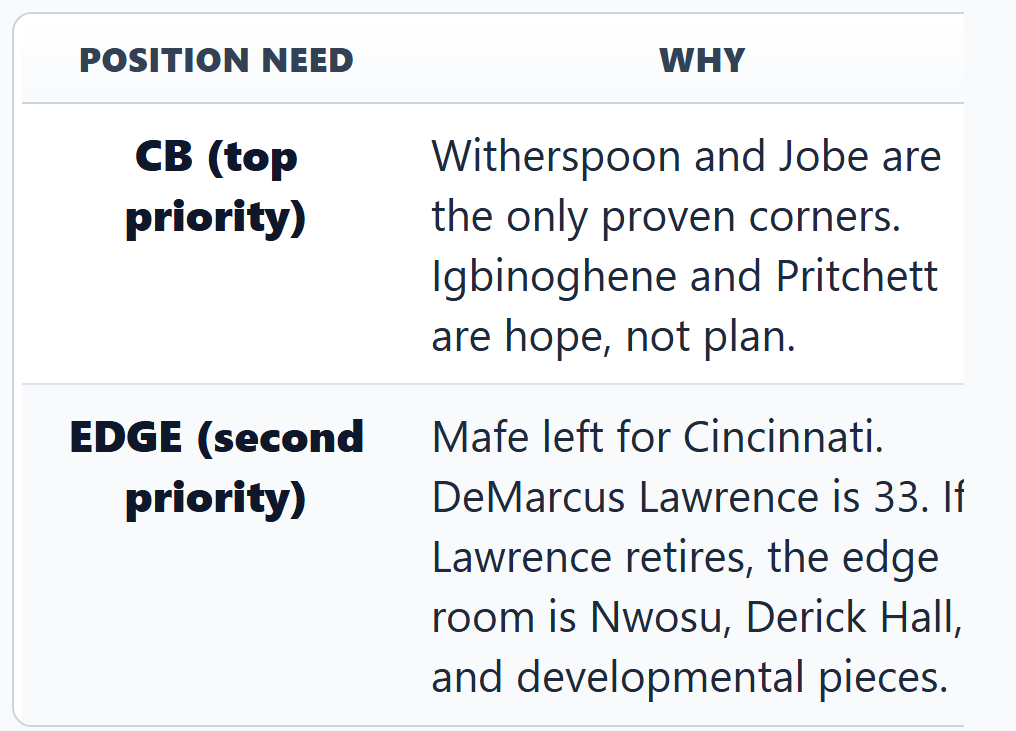
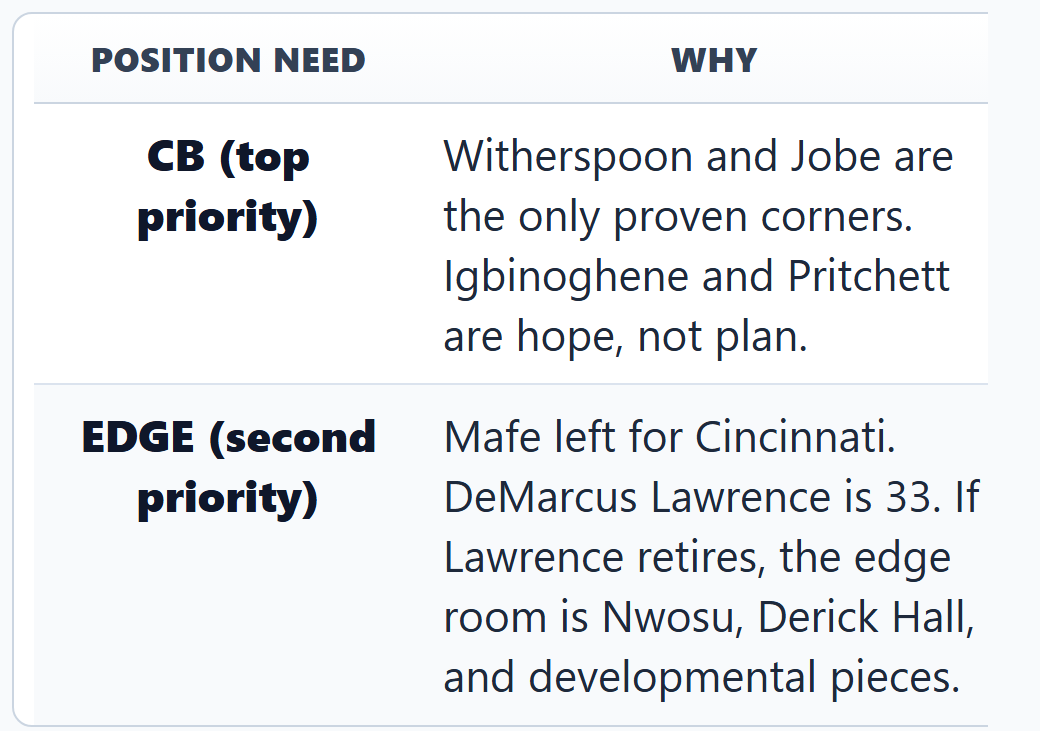
fix: increase mobile table frame padding to eliminate right-edge text clipping
tableFramePaddingX 4px was insufficient — Chrome's subpixel column-width
rounding at 2x DPR plus border-radius anti-aliasing on the overflow:hidden
frame consumed the margin. Increased to 10px. chooseMobileCanvasWidth()
auto-compensates so effective table content area is unchanged.

Also added word-break:break-word to tbody td for defensive consistency
with thead th.

Re-rendered both sea-emmanwori-rookie-eval mobile images; verified clean.

diff --git a/.squad/decisions/inbox/lead-mobile-table-render-fix.md b/.squad/decisions/inbox/lead-mobile-table-render-fix.md
@@ -2,7 +2,7 @@
 
 **Date:** 2026-07-26
 **Author:** Lead
-**Status:** Implemented
+**Status:** ✅ APPLIED (updated)
 
 ## Problem
 
@@ -10,20 +10,18 @@ Mobile table PNG images (generated by `.github/extensions/table-image-renderer/r
 
 ## Root Cause
 
-Two interacting issues:
+The original fix (commit `fcd6daa`) introduced `tableFramePaddingX: 4` and switched to `border-collapse: separate`, but 4 CSS px was insufficient. Chrome's subpixel column-width rounding at 2× DPR, combined with anti-aliased `border-radius: 10px` bleeding on the frame's `overflow: hidden` clip boundary, consumed the 4px margin. The effective visible buffer between text and the clip edge was ≈1–2px — too thin for 22px mobile body font.
 
-1. **`border-collapse: collapse` + `table-layout: fixed`** — Chrome's collapsed border model can produce subpixel column-width rounding that makes the table 1-4px wider than its container.
-2. **Zero-margin `overflow: hidden` on `.table-frame`** — The table filled the frame's content box exactly, so even 1px of overflow from (1) clipped the rightmost column's text.
+## Fix (round 2)
 
-## Fix (3 parts)
-
-1. **Added `tableFramePaddingX` to layout constants** (4px for mobile, 0 for desktop). This creates a safety buffer inside `.table-frame` between the border and the table. The `overflow: hidden` clips at the padding-box, which now extends beyond the content area.
-2. **Changed `border-collapse: collapse` → `border-collapse: separate; border-spacing: 0`** — eliminates Chrome's collapsed border rounding issue while maintaining identical visual appearance.
-3. **Increased mobile canvas width by `2 × tableFramePaddingX`** — compensates for the added frame padding so the effective table content area stays the same.
-4. **Updated `estimateRowHeight` and `estimateHeaderRowHeight`** — now account for frame border and padding in usable-width calculations.
+1. **Increased `tableFramePaddingX` from 4 → 10** in `MOBILE_RENDER_LAYOUT`. The additional 6px provides a clearly visible safety margin at mobile font sizes.
+2. **Added `word-break: break-word` to `tbody td`** CSS — matches `thead th` for defensive consistency.
+3. **No change to desktop layout** (`tableFramePaddingX: 0` is fine at smaller font sizes).
+4. `chooseMobileCanvasWidth()` already compensates via `framePad * 2`, so effective table content area is unchanged (canvas widens by 12px from 508 → 520 for ≤3 columns).
 
 ## Impact
 
-- All future mobile table renders will have the safety buffer.
-- Desktop renders are unaffected (`tableFramePaddingX: 0`).
-- Existing mobile images need re-rendering to pick up the fix (Emmanwori images re-rendered as part of this change).
+- Canvas width for ≤3-column mobile tables: 508 → 520px (+12px)
+- Effective font size at 375px viewport: ~15.7px (vs ~16.2px before) — well above 10px readability floor
+- All existing mobile images should be re-rendered when their articles next pass through the pipeline
+- Emmanwori article images re-rendered and verified clean

diff --git a/.squad/agents/lead/history.md b/.squad/agents/lead/history.md
@@ -180,6 +180,11 @@
 - **Seahawks first-name cross-contamination is a recurring pattern.** Devon Woolen (should be Tariq), Uchenna Mafe (should be Boye) — both borrowed first names from teammates (Witherspoon, Nwosu). Future SEA articles should include a name-verification checklist in the Writer prompt.
 - **One-year contracts should never use "AAV" formatting.** AAV implies multi-year; use "1yr / $XM" for consistency with how multi-year deals are formatted in tables.
 
+### Mobile Table Right-Edge Clipping Fix (2026-07-26)
+- **`tableFramePaddingX: 4` was insufficient for mobile renders at 22px body font.** Chrome's subpixel column-width rounding at 2× DPR plus `border-radius` anti-aliasing on the `overflow: hidden` frame consumed the 4px buffer. Increased to 10px — the `chooseMobileCanvasWidth()` auto-compensates so effective table content area stays constant.
+- **Always pair `overflow-wrap: anywhere` with `word-break: break-word` on table cells.** Header (`thead th`) already had both; body cells (`tbody td`) only had `overflow-wrap`. Adding the defensive `word-break` ensures consistent wrapping across all browser edge cases.
+- **When diagnosing table rendering bugs, render the exact same table markdown at the same options.** Reconstructing the source markdown from the image content is necessary when the draft has already been patched to reference image files instead of inline tables.
+
 ### Mobile Table Image Right-Edge Clipping Fix (2026-07-26)
 - **Root cause:** `border-collapse: collapse` + `table-layout: fixed` in Chrome causes subpixel column-width rounding that can overflow the `.table-frame` by 1-4px. With `overflow: hidden` and zero frame padding, the rightmost column's text gets clipped.
 - **Fix:** Added `tableFramePaddingX` (4px mobile, 0 desktop) to layout constants, switched to `border-collapse: separate; border-spacing: 0`, increased mobile canvas width by `2 × framePadding` to compensate. Updated height estimation functions to account for frame border + padding.
